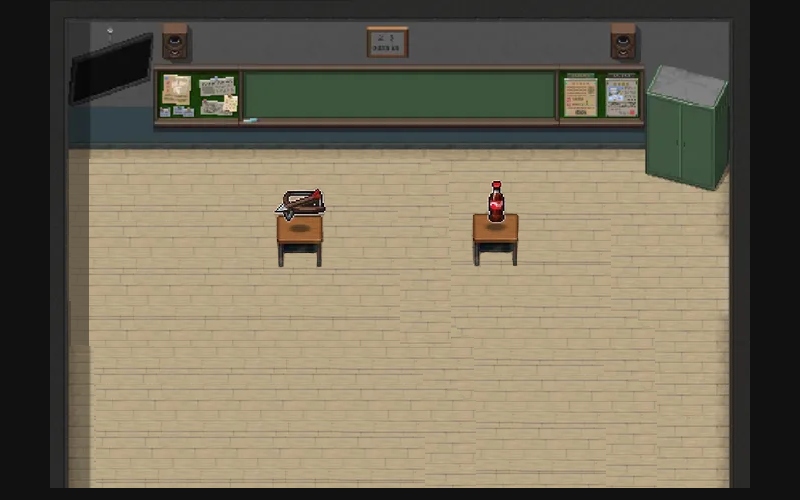
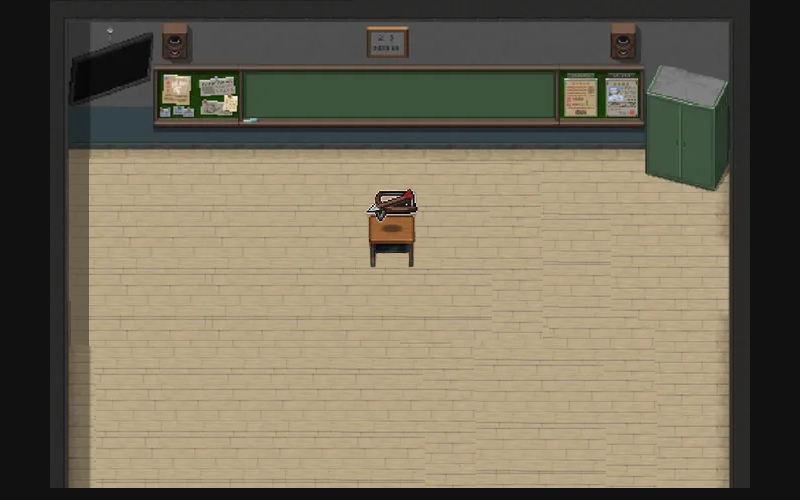
update:선택창에 캐릭터 띄우기

diff --git a/occupation_select_mode.py b/occupation_select_mode.py
@@ -1,32 +1,48 @@
-from pico2d import load_image, get_time, clear_canvas, update_canvas, get_events
+from pico2d import *
 
-import src.config.game_framework as game_framework, src.mode.title_mode as title_mode
-import src.config.config as config
+import game_framework as game_framework
+import game_world
+import play_mode
+import server
+import object_wall
+import player
 
 
 def handle_events():
-    event = get_events()
+    events = get_events()
+    for event in events:
+        if event.type == SDL_QUIT:
+            game_framework.quit()
+        elif event.type == SDL_KEYDOWN and event.key == SDLK_ESCAPE:
+            game_framework.quit()
+        else:
+            boy.handle_event(event)
 
 
 def init():
     global image
     global logo_start_time
-    image = load_image('./src/asset/tuk_credit.png')
-    logo_start_time = get_time()
+    image = load_image('occupation selection.png')
+    #game_world.add_object(b_g_image, 0)
+    global boy
+    boy=player.Player(800,400,170)
+    game_world.add_object(boy,1)
+    wall=object_wall.Wall(1100,685,1190,115)
+    game_world.add_object(wall,1)
+    #logo_start_time = get_time()
 
 def finish():
-    global image
-    del image
+    game_world.clear()
+    pass
 
 
 def update():
-    global logo_start_time
-    if get_time() - logo_start_time >= 2.0:
-        logo_start_time = get_time()
-        game_framework.change_mode(title_mode)
+    game_world.update()
+    game_world.handle_collisions()
 
 
 def draw():
     clear_canvas()
-    image.draw(config.screen_width / 2, config.screen_height / 2, config.screen_width, config.screen_height)
+    image.clip_draw(0,0,800,500,800,500,1600,1000)
+    game_world.render()
     update_canvas()

diff --git a/player.py b/player.py
@@ -60,7 +60,7 @@ class Idle:
 
     @staticmethod
     def draw(player):
-        player.image.clip_draw(int(player.frame )* 75,int(player.action)* 75, 75, 75, int(player.x),int( player.y),120,120)
+        player.image.clip_draw(int(player.frame )* 75,int(player.action)* 75, 75, 75, int(player.x),int( player.y),player.size,player.size)
 
 # 상=0 / 우=1 / 좌=2 / 하=3
 class Run:
@@ -119,19 +119,20 @@ class Run:
 
     @staticmethod
     def draw(player):
-        player.image.clip_draw(int(player.frame) * 75, int(player.action)* 75, 75, 75, int(player.x), int(player.y),120,120)
+        player.image.clip_draw(int(player.frame) * 75, int(player.action)* 75, 75, 75, int(player.x), int(player.y),player.size,player.size)
 
 
 # 상=0 / 우=1 / 좌=2 / 하=3
 class Player:
-    def __init__(self):
+    def __init__(self,x=800,y=500, size=120):
         self.image=load_image('player2.png')
-        self.x,self.y=800,500
+        self.x,self.y=x,y
         self.face_dir=3
         self.dir=3
         self.key_count=0
         self.frame=0
         self.action=0
+        self.size=size
         self.success=False
         self.state_machine=StateMachine(self)
         self.state_machine.start(Idle)

diff --git a/logo_mode.py b/logo_mode.py
@@ -3,7 +3,7 @@ from pico2d import load_image, get_time, clear_canvas, update_canvas, get_events
 import game_framework as game_framework
 import play_mode
 import server
-
+import occupation_select_mode
 
 def handle_events():
     event = get_events()
@@ -24,7 +24,7 @@ def update():
     global logo_start_time
     if get_time() - logo_start_time >= 2.0:
         logo_start_time = get_time()
-        game_framework.change_mode(play_mode)
+        game_framework.change_mode(occupation_select_mode)
         server.mode='play'
 
 

diff --git a/main.py b/main.py
@@ -1,7 +1,7 @@
 from pico2d import open_canvas, delay, close_canvas, get_time
 import game_framework
 
-import logo_mode as start_mode
+import occupation_select_mode as start_mode
 import server
 '''
 def reset_world():

diff --git a/background.py b/background.py
@@ -36,3 +36,6 @@ class Cover:
     def draw(self):
         # self.image.draw(650,400)
         self.image.clip_draw(0,0, 600, 400, 800, 500, 1600, 1000)
+
+class Back_occupation:
+    pass

diff --git a/play_mode.py b/play_mode.py
@@ -96,7 +96,6 @@ def update():
     if server.player.success:
        finish()
        game_framework.change_mode(logo_mode)
-       server.mode = 'logo'
 
 def draw():
     clear_canvas()
